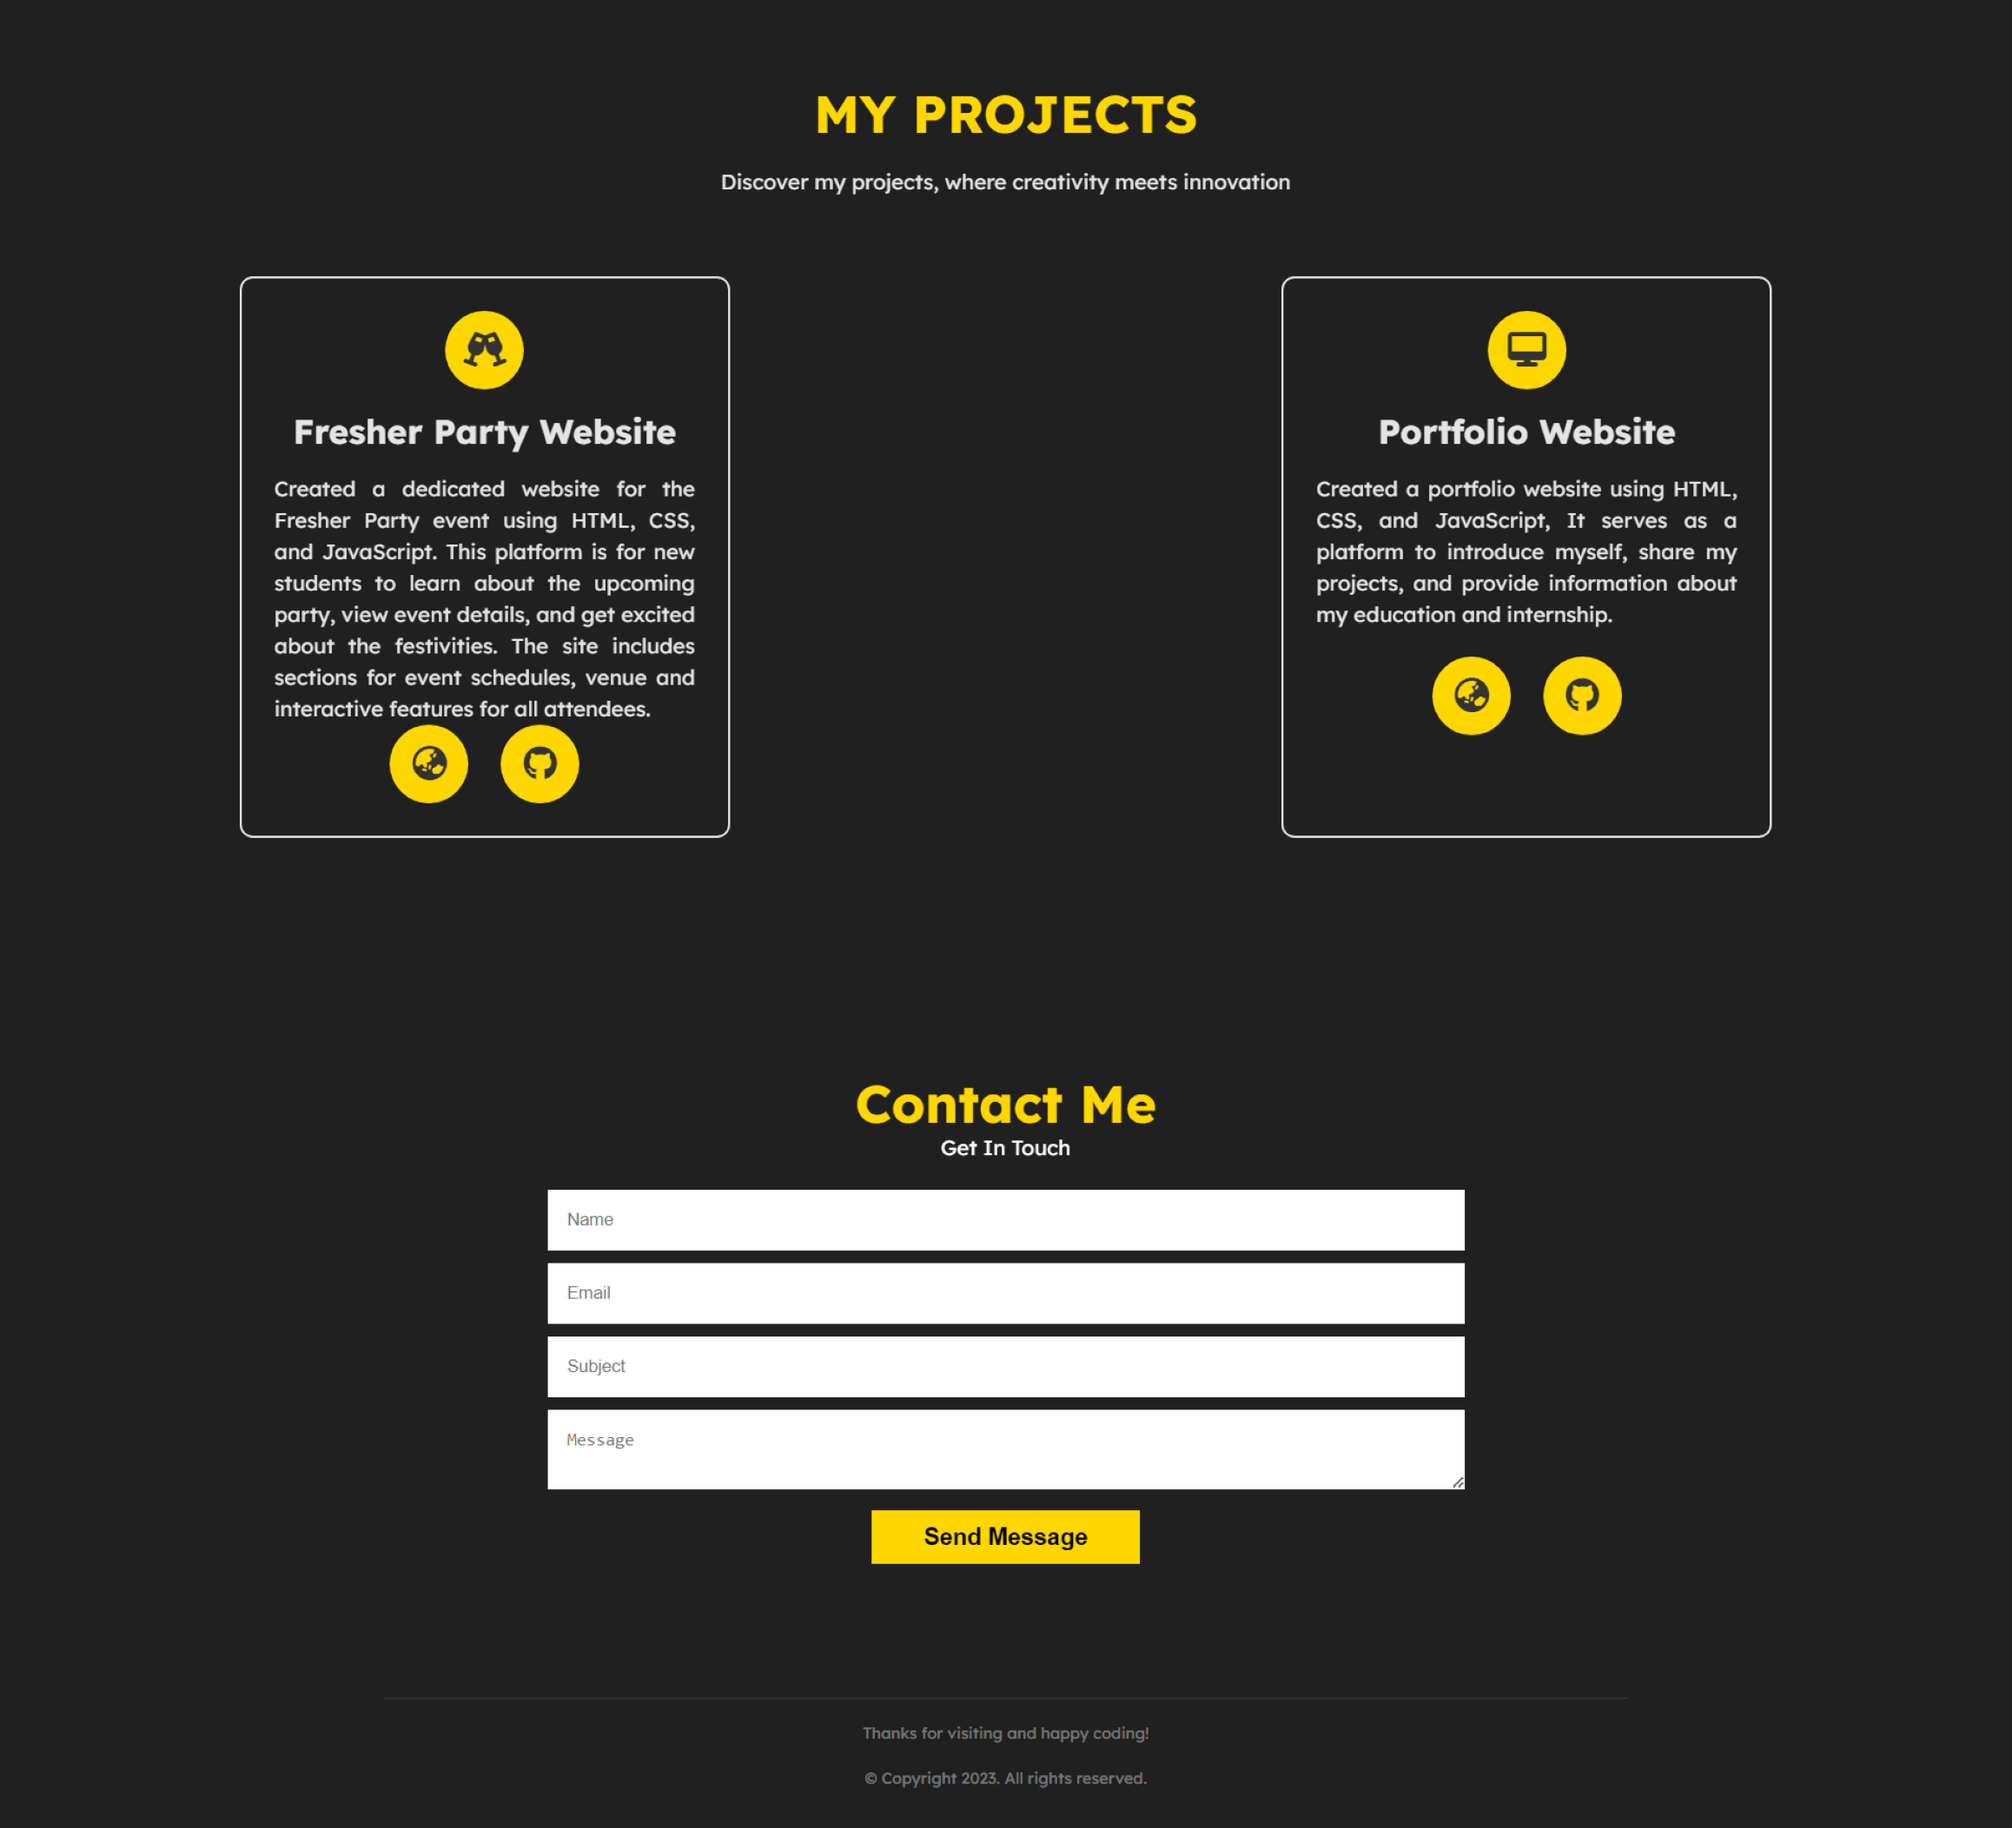
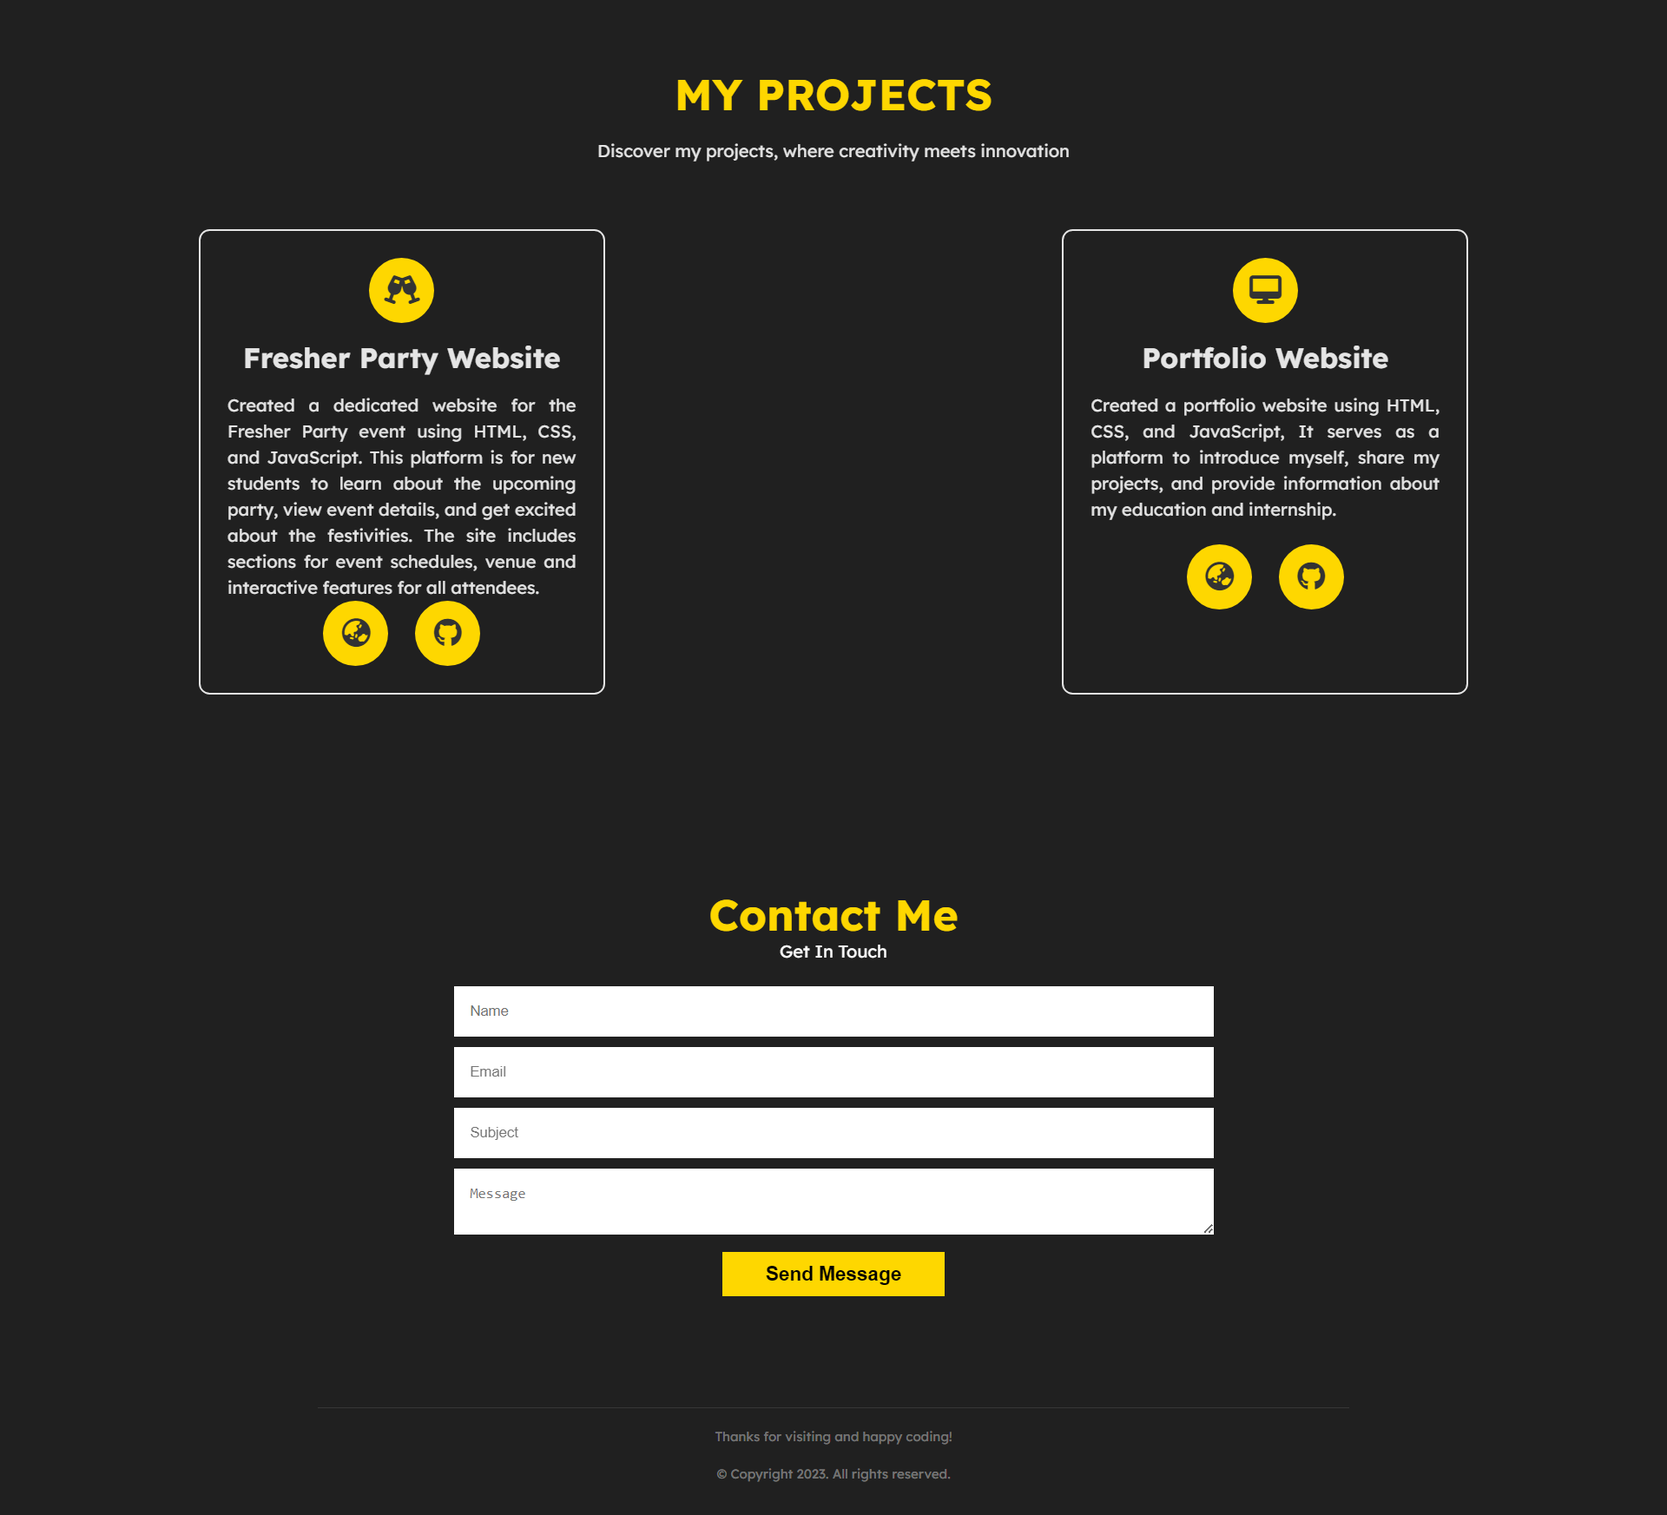
Updated ReadME

diff --git a/README.md b/README.md
@@ -1,2 +1,6 @@
-| ![Preview Img 1](Files/img1.png) | ![Preview Img 2](Files/img2.png) |
-|----------------------------------|----------------------------------|
+<table>
+  <tr>
+    <td><img src="Files/img1.png" height="300" alt="Preview Img 1" /></td>
+    <td><img src="Files/img2.png" height="300" alt="Preview Img 2" /></td>
+  </tr>
+</table>
